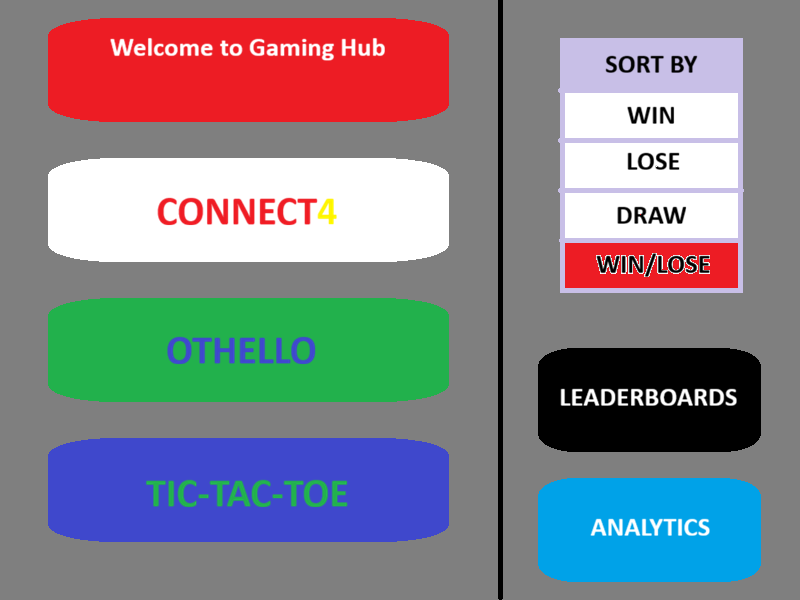
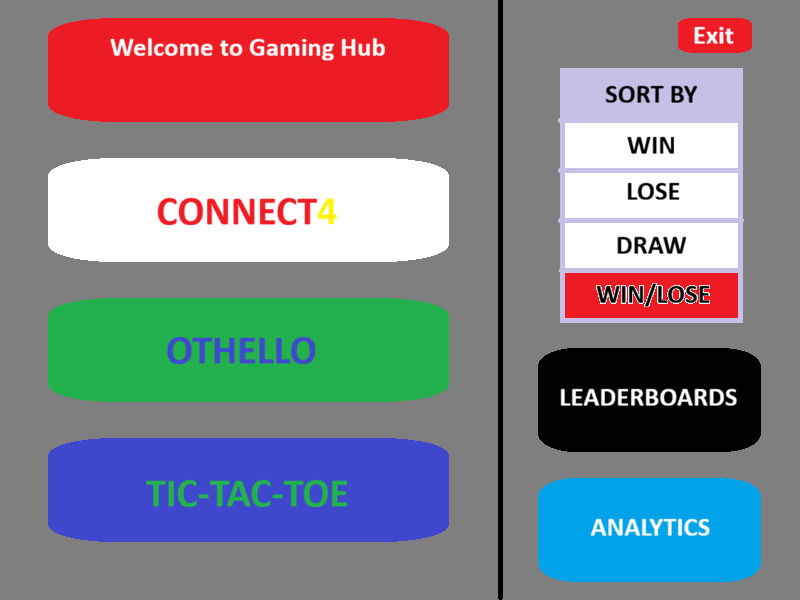
included exit option in main_menu and also added the pop_up at the end of each gameplay to quit

Changed region(s): [[0.6875, 0.03, 0.9375, 0.54]]

diff --git a/game.py b/game.py
@@ -18,6 +18,7 @@ li = pygame.image.load(os.path.join(base_path,"ML.png"))
 di = pygame.image.load(os.path.join(base_path,"MD.png"))
 ri = pygame.image.load(os.path.join(base_path,"MR.png"))
 pu = pygame.image.load(os.path.join(base_path,"P.png"))
+epu = pygame.image.load(os.path.join(base_path,"EP.png"))
 nss = pygame.image.load(os.path.join(base_path,"MWS.png"))
 image = nss
 clock = pygame.time.Clock()
@@ -26,7 +27,7 @@ def recording(status,winner,loser,game):
     with open("history.csv",mode='a',newline='') as file:
         writer = csv.writer(file)
         writer.writerow([status,winner,loser,date,game])
-def load_image(screen,image):
+def load_image(screen):
     screen.blit(image,(0,0))
     font = pygame.font.Font(None,35)
     text1 = font.render(username1,True,"white")
@@ -40,7 +41,7 @@ class Game():
         pygame.display.set_caption("Mini Gaming Hub")
         global screen
         screen = self.screen
-        load_image(screen,image)
+        load_image(screen)
     def render_user(self,x, y, title, label, username, color):
         font = pygame.font.Font(None, 36)
         t1 = font.render(title, True, color)
@@ -82,7 +83,8 @@ class Game():
         username1, self.username1 = player1,player1 # first player starts game
         username2, self.username2 = player2,player2
 sortby = 1
-def pop_up(screen):
+def pop_up():
+    screen.fill("black")
     screen.blit(pu,(100,150))
     font = pygame.font.Font(None,35)
     text = font.render(username1,True,"white")
@@ -92,18 +94,31 @@ def leaderboard(sortby):
 def analysis():
     subprocess.Popen(["python3","./analysis.py"])
 def main_menu():
-    global sortby,image,username1,username2,pop,sort_active
-    pop = False
+    global sortby,image,username1,username2,sort_active,pa,gs
     pygame.init() #initializing the pygame
     G = Game(sys.argv[1],sys.argv[2])
     G.init_screen()
+    pa = False
     running = True
     GNS = True
+    gs = True
     p1f = False
     gid = None
+    def end():
+        nonlocal p1f, GNS,gid,running
+        global gs
+        if pa:
+            GNS = True
+            p1f = False
+            gid = None
+            gs = True
+        else:
+            running = False
+            pygame.quit()
+            sys.exit()
     def pg(game,gn):
-        global sortby
-        nonlocal p1f, GNS,gid
+        global sortby,gs
+        nonlocal p1f, GNS,gid,running
         pygame.display.set_caption(gn)
         status, winner, loser = game.play_game()
         if status != 3 : 
@@ -111,15 +126,14 @@ def main_menu():
             leaderboard(sortby)
             analysis()
         G.init_screen()
-        GNS = True
-        p1f = False
-        gid = None
+        screen.blit(epu,(100,150))
+        gs = False
     while running:
         # gid = 2
-        if GNS:
-            load_image(screen,image)
-        if not GNS:
-            pop_up(screen)
+        if GNS and gs:
+            load_image(screen)
+        if not GNS and gs:
+            pop_up()
         for event in pygame.event.get():
             if event.type == pygame.QUIT:
                 running = False
@@ -127,85 +141,100 @@ def main_menu():
                 sys.exit()
             if event.type == pygame.MOUSEBUTTONDOWN:
                 i,j = pygame.mouse.get_pos()
-                if i in range(540,760) and j in range(37,90) and GNS:
-                    sort_active = not sort_active
-                    print(sort_active)
-                if sort_active == True:
-                    if sortby == 1:
-                        image = wi
-                        load_image(screen,image)
-                        pygame.display.update()
-                    elif sortby == 2:
-                        image = li
-                        load_image(screen,image)
-                        pygame.display.update()
-                    elif sortby == 3:
-                        image = di
-                        load_image(screen,image)
-                        pygame.display.update()
-                    elif sortby == 4:
-                        image = ri
-                        load_image(screen,image)
-                        pygame.display.update()
-                    if i in range(560,741) and GNS:
-                        if j in range(90,140):
-                            sortby = 1
+                if gs:
+                    if not GNS:
+                        screen.fill("black")
+                        clock.tick(30)
+                    if i in range(680,750) and j in range(20,50) and GNS:
+                        running = False
+                        pygame.quit()
+                        sys.exit()
+                    if i in range(540,760) and j in range(70,120) and GNS:
+                        sort_active = not sort_active
+                        print(sort_active)
+                    if sort_active and GNS:
+                        if sortby == 1:
                             image = wi
-                            load_image(screen,image)
+                            load_image(screen)
                             pygame.display.update()
-                        elif j in range(141,190):
-                            sortby = 2
+                        elif sortby == 2:
                             image = li
-                            load_image(screen,image)
+                            load_image(screen)
                             pygame.display.update()
-                        elif j in range(191,240):
-                            sortby = 3
+                        elif sortby == 3:
                             image = di
-                            load_image(screen,image)
+                            load_image(screen)
                             pygame.display.update()
-                        elif j in range(241,290):
-                            sortby = 4
+                        elif sortby == 4:
                             image = ri
-                            load_image(screen,image)
+                            load_image(screen)
                             pygame.display.update()
-                if sort_active == False and GNS:
-                    image = nss
-                    load_image(screen,image)
-                    pygame.display.update()
-                if i in range(50,450) and GNS:
-                    if j in range(160,260):
-                        GNS = False
-                        gid = 3
-                        pop_up(screen)
-                    elif j in range(300,400):
-                        GNS = False
-                        pop_up(screen)
-                        gid = 1
-                    elif j in range(440,540):
-                        GNS = False
-                        pop_up(screen)
-                        gid = 2
-                elif j in range(350,400) and not p1f:
-                    if i in range(200,300):
-                        p1f = True
-                    elif i in range(500,600):
-                        username1,username2 = username2,username1
-                        p1f = True
-                if i in range(540,760) and GNS:
-                    if j in range(350,450):
-                        print(sortby)
-                        leaderboard(sortby)
-                    if j in range(480,580):
-                        analysis()
-        if gid==2 and p1f:
+                        if i in range(560,741) and GNS:
+                            if j in range(120,170):
+                                sortby = 1
+                                image = wi
+                                load_image(screen)
+                                pygame.display.update()
+                            elif j in range(171,220):
+                                sortby = 2
+                                image = li
+                                load_image(screen)
+                                pygame.display.update()
+                            elif j in range(221,270):
+                                sortby = 3
+                                image = di
+                                load_image(screen)
+                                pygame.display.update()
+                            elif j in range(271,320):
+                                sortby = 4
+                                image = ri
+                                load_image(screen)
+                                pygame.display.update()
+                    if sort_active == False and GNS:
+                        image = nss
+                        load_image(screen)
+                        pygame.display.update()
+                    if i in range(50,450) and GNS:
+                        if j in range(160,260):
+                            GNS = False
+                            gid = 3
+                            pop_up()
+                        elif j in range(300,400):
+                            GNS = False
+                            pop_up()
+                            gid = 1
+                        elif j in range(440,540):
+                            GNS = False
+                            pop_up()
+                            gid = 2
+                    elif j in range(350,400) and (not p1f) and (not GNS) :
+                        if i in range(200,300):
+                            p1f = True
+                        elif i in range(500,600):
+                            username1,username2 = username2,username1
+                            p1f = True
+                    if i in range(540,760) and GNS:
+                        if j in range(350,450):
+                            leaderboard(sortby)
+                        if j in range(480,580):
+                            analysis()
+                else:
+                    if j in range(350,400):
+                        if i in range(200,300):
+                            pa = False
+                            end()
+                        elif i in range(500,600):
+                            pa = True
+                            end()
+        if gid==2 and p1f and gs:
             from games.tictactoe import TTT
             tictactoe = TTT(username1,username2)
             pg(tictactoe,"TIC-TAC-TOE")
-        elif gid == 1 and p1f:
+        elif gid == 1 and p1f and gs:
             from games.othello import OT
             othello = OT(username1,username2)
             pg(othello,"OTHELLO")
-        elif gid == 3 and p1f:
+        elif gid == 3 and p1f and gs:
             from games.connect4 import CO
             connect4 = CO(username1,username2)
             pg(connect4,"CONNECT4")
